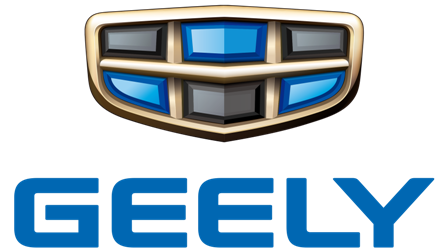
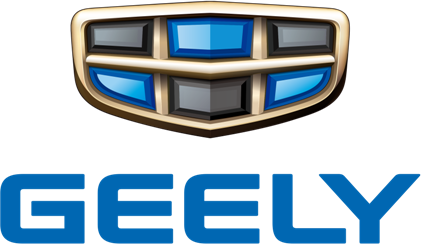
fix hieght brand

Changed region(s): [[0.1544, 0.0, 0.8337, 0.5645], [0.0, 0.6774, 1.0, 0.9879]]

diff --git a/static/src/css/custom.css b/static/src/css/custom.css
@@ -291,3 +291,11 @@ footer ,footer li ,footer a ,footer .text-muted {
     background-color: #666;
     color: white!important;
 }
+.container-khaneh img{
+
+    height: 125px;
+    vertical-align: middle;
+}
+.container-khaneh{
+    height: 160px;
+}
